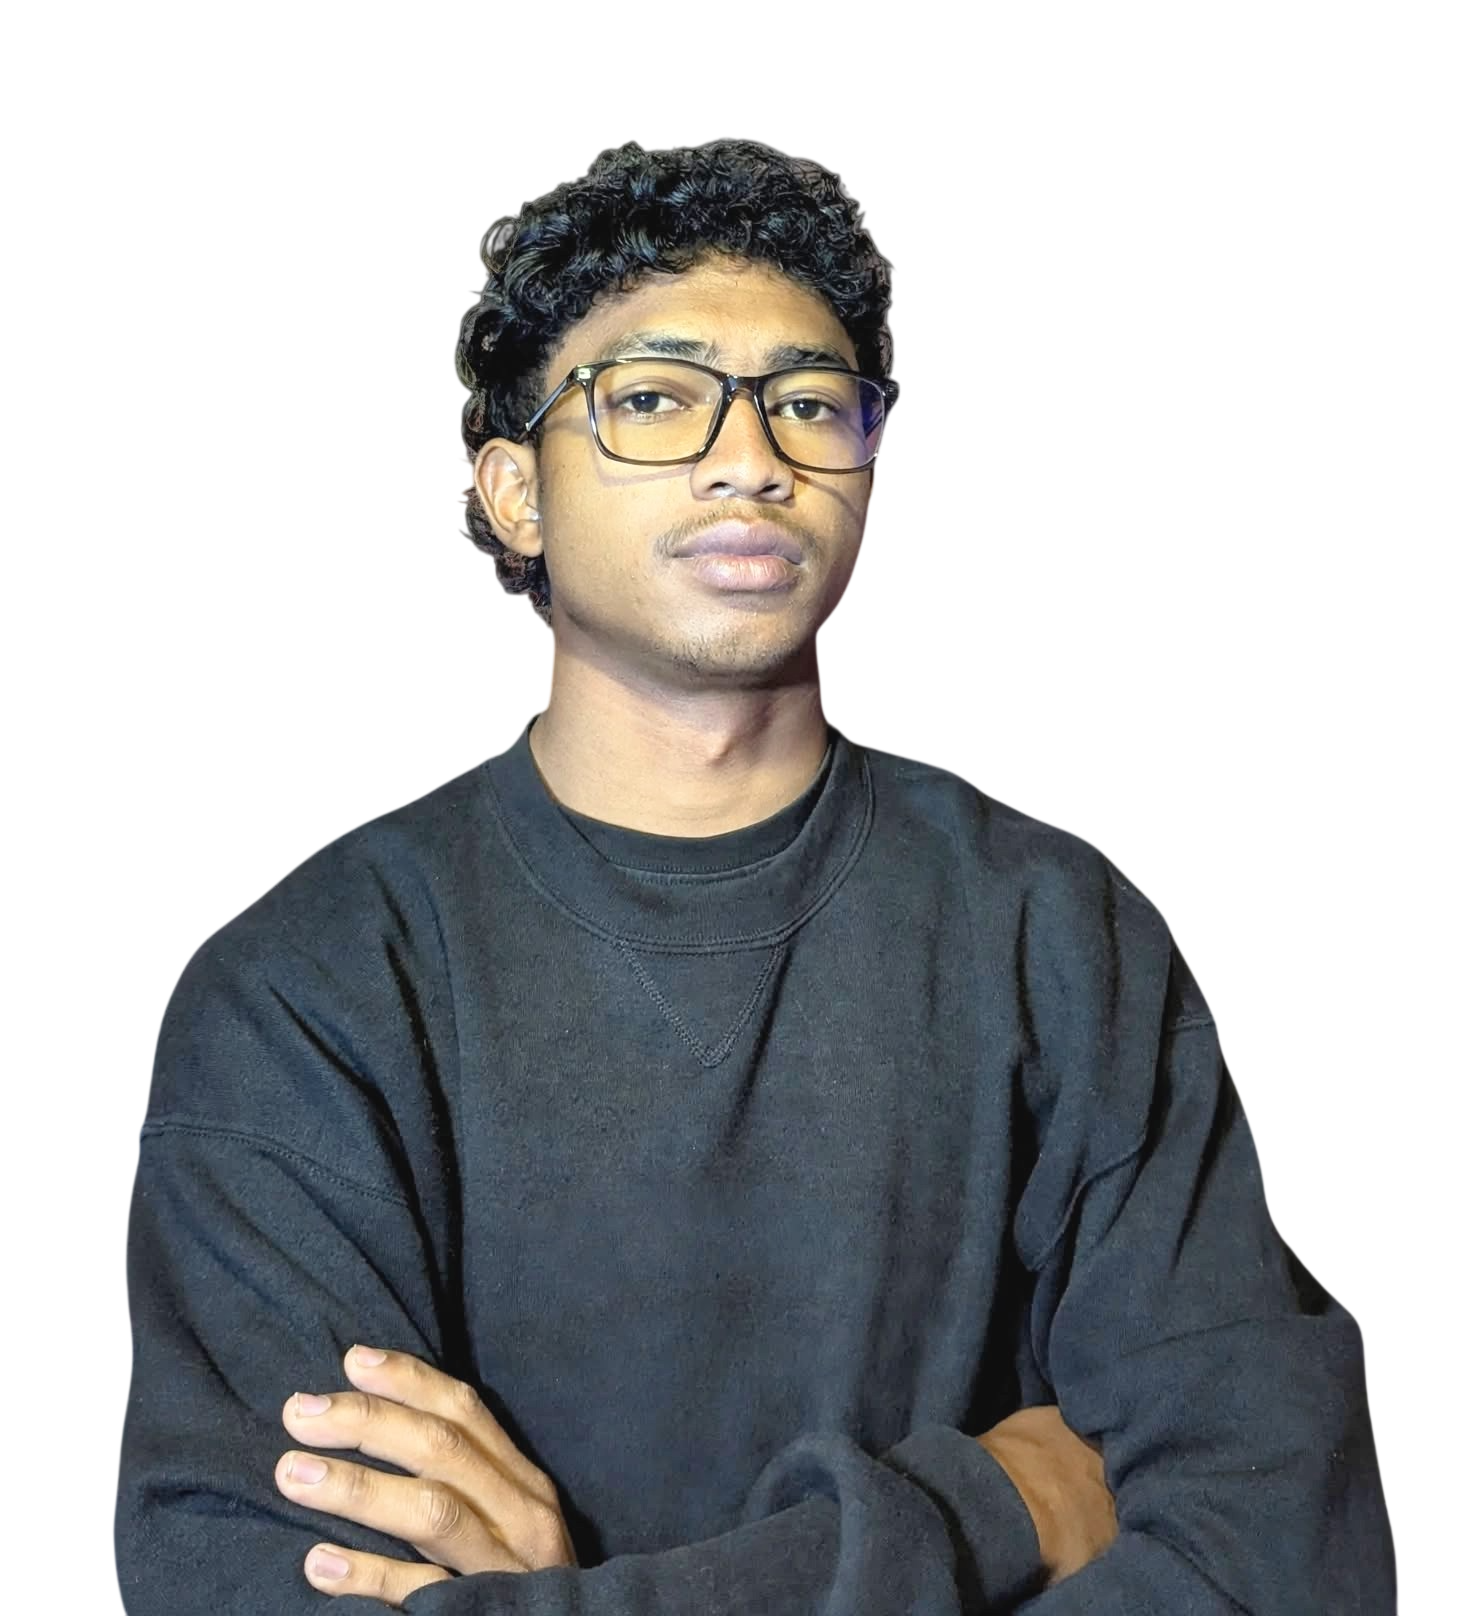
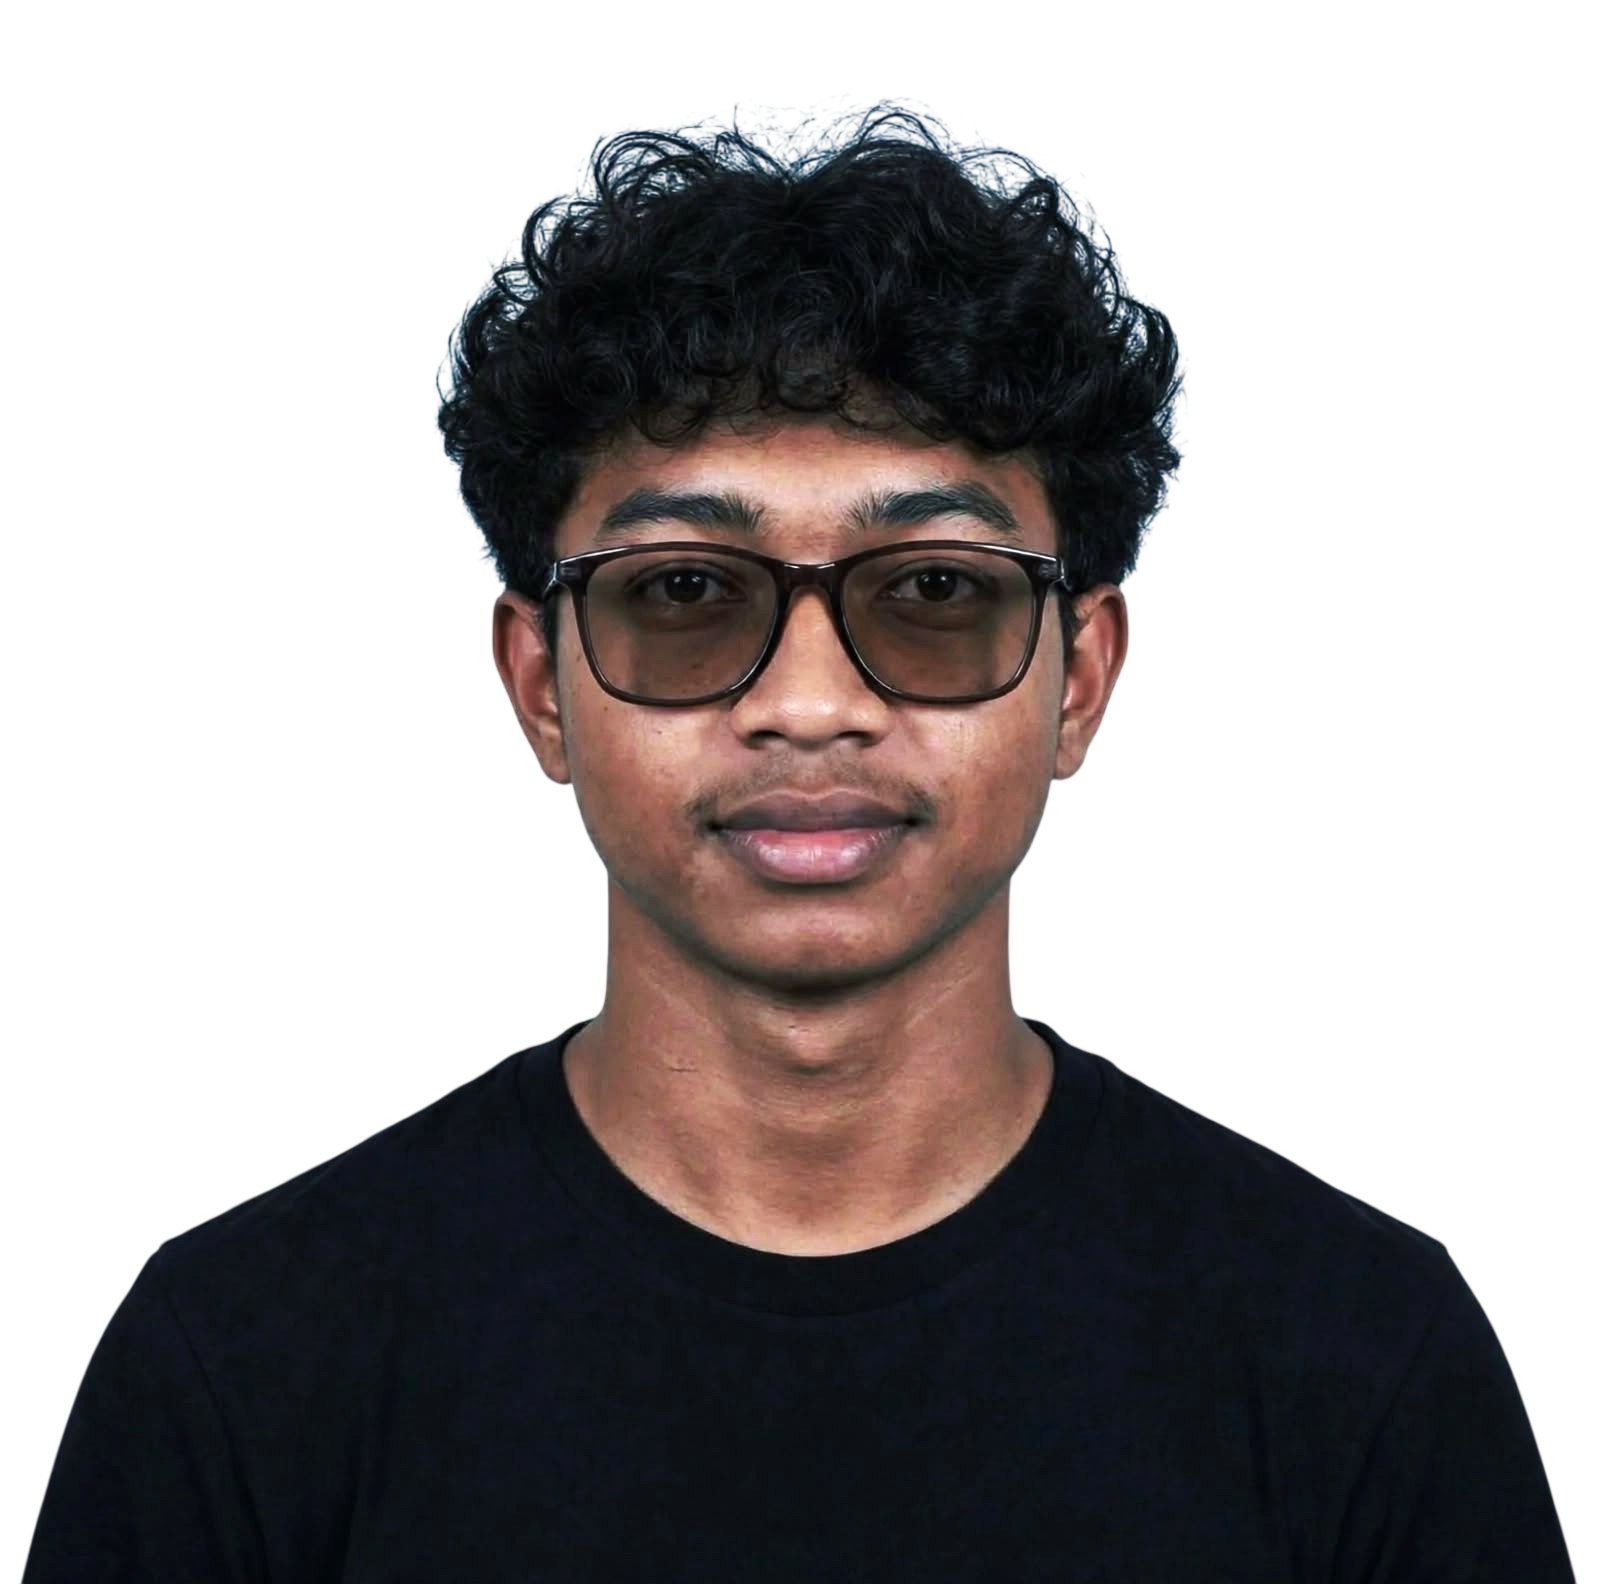
Updating pp

diff --git a/src/Index.tsx b/src/Index.tsx
@@ -11,7 +11,6 @@ import { Footer } from "@/src/components/Footer";
 import { ContactModal } from "@/src/components/ContactModal";
 import { CustomCursor } from "@/src/components/CustomCursor";
 import { Preloader } from "@/src/components/Preloader";
-import { AssistantBubble } from "@/src/components/AssistantBubble";
 import { Language } from "@/src/data/portfolioData";
 
 export default function Index() {
@@ -71,12 +70,6 @@ export default function Index() {
 
       {/* Footer */}
       <Footer lang={lang} />
-
-      {/* Floating Assistant Bubble at bottom-right */}
-      <AssistantBubble
-        lang={lang}
-        onOpenContact={() => setIsContactModalOpen(true)}
-      />
 
       {/* Contact Modal with Phone, WhatsApp and Email */}
       <ContactModal
